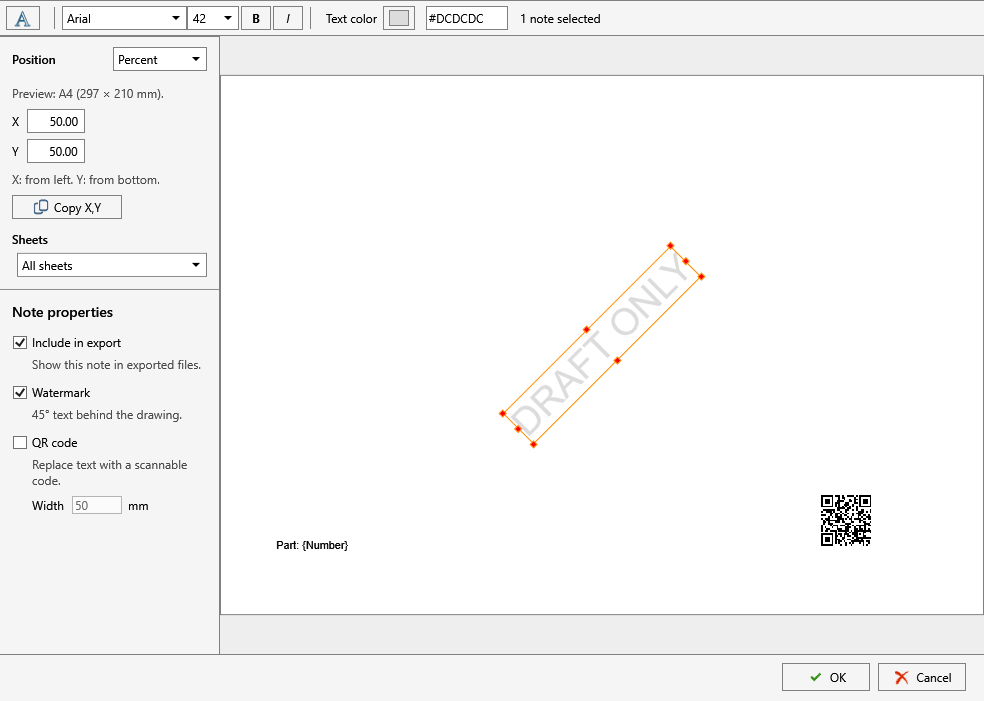
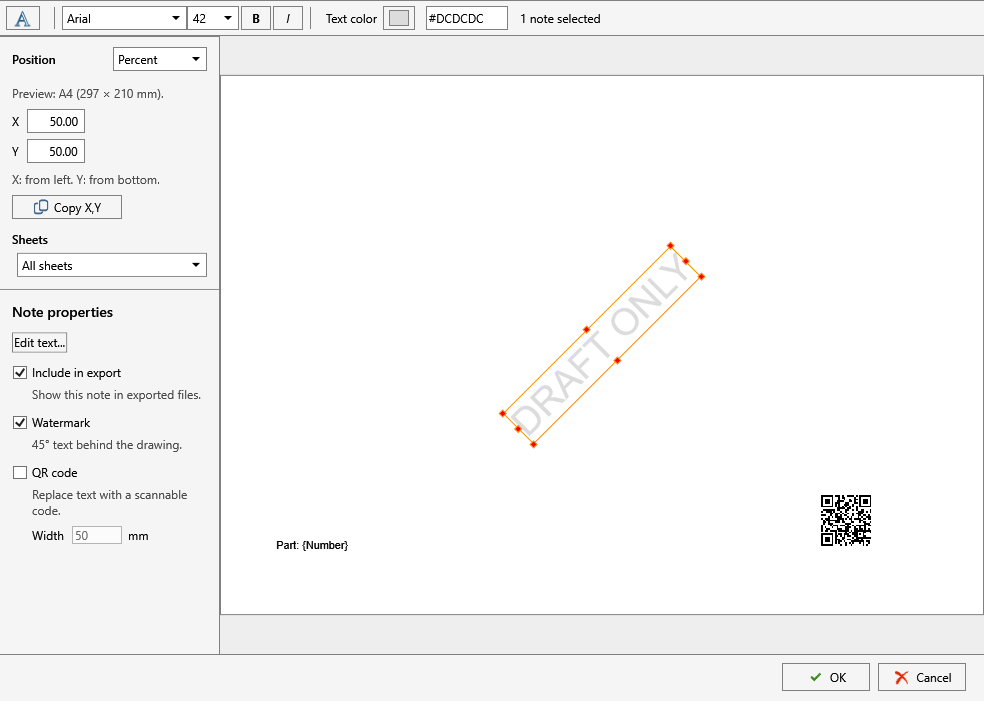
Clarify property replacement, evaluated values and watermark text

Changed region(s): [[0.0, 0.4793, 0.2134, 0.7789]]

diff --git a/src/pdmpublishersolidworks_property-doctor.md b/src/pdmpublishersolidworks_property-doctor.md
@@ -30,7 +30,7 @@ Gray cells are missing properties. **Clear** keeps the property name and writes 
 
 In version 2026.10.49, **File properties** includes the document's custom and configuration-specific properties even when their columns are hidden. Hiding a column does not remove that property from the picker.
 
-Property and formula references appear as chips with descriptive names. Switching between an evaluated value and its expression, or entering and leaving edit mode, preserves those references. Mixed text and chips wrap within the cell so you can read and edit them without widening the column.
+Property and formula references appear as chips with descriptive names. Evaluated values appear by default; the active cut list is read from SOLIDWORKS for current values. Switch a column to its expressions or enter edit mode to inspect the source without replacing it. Mixed text and chips wrap within the cell so you can read and edit them without widening the column.
 
 ![Property Doctor editing a value containing text and two Description reference chips](/images/pdmpublisher/solidworks/property-chips-20261049.png)
 
@@ -65,7 +65,7 @@ Press **Escape** while the grid has focus to clear all selected cells. This also
 
 ## Find and Replace Property Values
 
-Starting with version **2026.10.42**, right-click a property cell and choose **Find and replace in this column...**. The Find and Replace panel shows the selected column, such as **Column: Cost**.
+Right-click a property cell and choose **Find and replace in this column...**. The Find and Replace panel shows the selected column, such as **Column: Cost**. Its Find text is separate from the table filter, so replaced rows stay visible.
 
 1. Enter the text in **Find** and the new text in **Replace with**. Leave the replacement empty to remove matching text.
 2. Use **Find next** to inspect a match, then **Replace**, or select **Replace all** to update matching values in the displayed rows.

diff --git a/src/pdmpublishersolidworks_annotations.md b/src/pdmpublishersolidworks_annotations.md
@@ -11,11 +11,11 @@ Annotations belong to the selected publishing profile. Open **PDMPublisher > Ann
 
 Select a note to show its properties sidebar. Click empty space to hide the sidebar and use the full preview area.
 
-- Use **A** to add a note. Double-click a note to edit its text or insert a property from the dropdown. Drag the editor edges to resize the editing box.
+- Use **A** to add a note. Select **Edit text...** in its sidebar or double-click the note to edit its text or insert a property from the dropdown. Drag the editor edges to resize the editing box.
 - Choose the font, point size, bold, italic, and text color on the toolbar. Click the color swatch or type a complete `#RRGGBB` color.
 - Set **Position** to percent, millimeters, or inches. X is measured from the left and Y from the bottom; a watermark uses its center as the anchor.
 - **Include in export** keeps or omits the note without deleting its definition. **Sheets** selects all sheets, the first sheet, or named sheets.
-- **Watermark** rotates text 45 degrees behind the drawing. It starts gray; you can change the color. Clearing Watermark keeps the text styling.
+- **Watermark** rotates the note's text 45 degrees behind the drawing. It starts gray; you can change the color. Clearing Watermark keeps the text styling. Image and logo watermarks are not supported.
 - **QR code** renders the note as an image. Double-click to edit its text. Width is in inches when inch positioning is selected, otherwise millimeters—never percent.
 - Press **Ctrl+A** outside text editing to select every note, then **Delete** to remove them.
 
